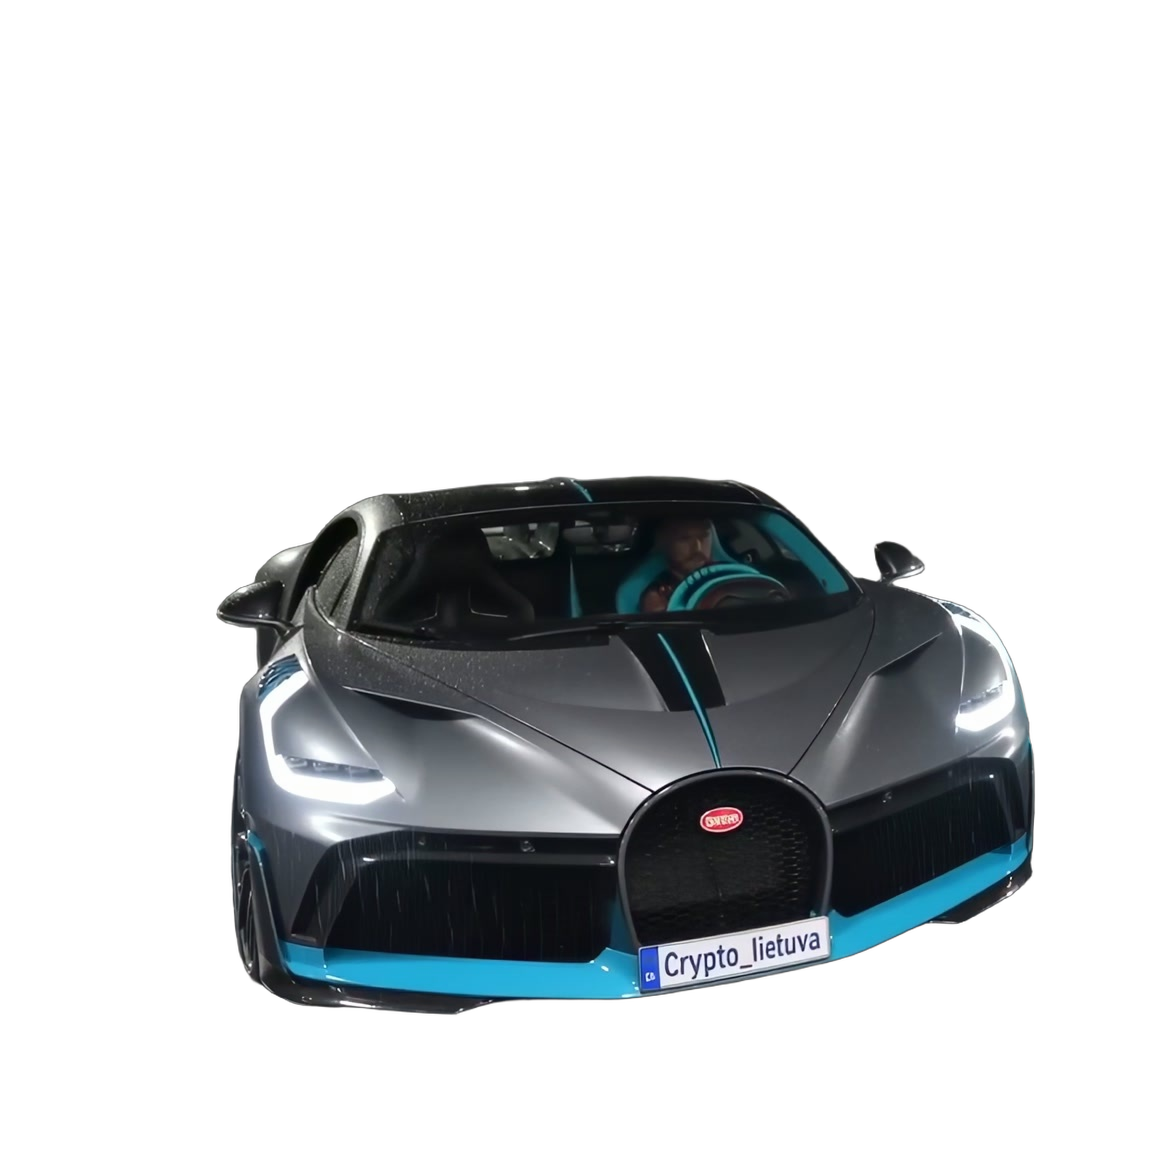
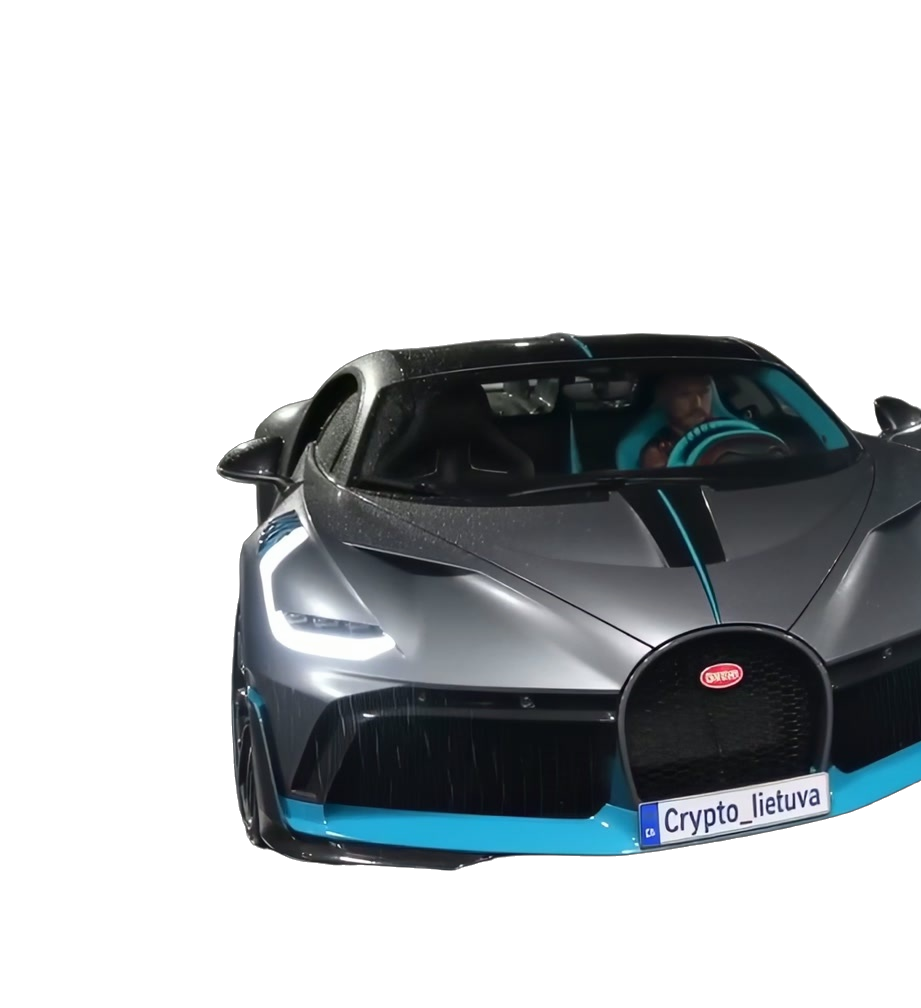
Fix car extraction: tight crops + connected-component filtering

Changed region(s): [[0.1824, 0.3075, 1.0, 0.8919]]

diff --git a/scripts/extract-cars.py b/scripts/extract-cars.py
@@ -1,41 +1,82 @@
 #!/usr/bin/env python3
-"""Extract three cars from the hero poster as separate transparent PNGs.
-
-Uses birefnet-general for best edge quality. Validates each output.
-"""
+"""Extract three cars cleanly. Tighter crops + connected-component filtering."""
 from pathlib import Path
 from rembg import new_session, remove
 from PIL import Image, ImageFilter, ImageEnhance
+import numpy as np
 import sys
 
 SOURCE = Path("public/web_hero_poster.jpg")
 if not SOURCE.exists():
-    print(f"ERROR: {SOURCE} not found.", file=sys.stderr)
+    print(f"ERROR: {SOURCE} not found", file=sys.stderr)
     sys.exit(1)
 
 OUT_DIR = Path("public/cars")
 OUT_DIR.mkdir(exist_ok=True, parents=True)
 
-# birefnet-general gives much sharper edges than u2net or isnet
-print("Loading birefnet-general model (first run downloads ~400MB)...")
+print("Loading birefnet-general model...")
 session = new_session("birefnet-general")
 
 img = Image.open(SOURCE).convert("RGB")
 w, h = img.size
-print(f"Source poster: {w}x{h}")
+print(f"Source: {w}x{h}")
 
-# Generous overlapping crop regions
+# TIGHT crops — no overlap. Each crop contains ONLY one car.
+# Format: (left, top, right, bottom) as fractions of width/height
 regions = {
-    "divo":      (0,             int(h * 0.20), int(w * 0.45), h),
-    "urus":      (int(w * 0.25), int(h * 0.20), int(w * 0.75), h),
-    "aventador": (int(w * 0.55), int(h * 0.20), w,             h),
+    "divo":      (0.00, 0.30, 0.36, 1.00),  # Bugatti — left third
+    "urus":      (0.36, 0.25, 0.64, 1.00),  # Urus — middle third (narrower)
+    "aventador": (0.64, 0.30, 1.00, 1.00),  # Aventador — right third
 }
 
-for car_id, box in regions.items():
-    print(f"\n=== Processing {car_id} ===")
+def keep_largest_blob(rgba_img: Image.Image) -> Image.Image:
+    """Keep only the largest connected blob in the alpha channel.
+    Removes stray fragments of neighboring cars."""
+    arr = np.array(rgba_img)
+    alpha = arr[:, :, 3]
+    mask = alpha > 30  # threshold for "visible"
+
+    from collections import deque
+    labels = np.zeros_like(mask, dtype=np.int32)
+    current_label = 0
+    blob_sizes = {}
+
+    H, W = mask.shape
+    for y in range(H):
+        for x in range(W):
+            if mask[y, x] and labels[y, x] == 0:
+                current_label += 1
+                size = 0
+                q = deque([(y, x)])
+                while q:
+                    cy, cx = q.popleft()
+                    if cy < 0 or cy >= H or cx < 0 or cx >= W:
+                        continue
+                    if not mask[cy, cx] or labels[cy, cx] != 0:
+                        continue
+                    labels[cy, cx] = current_label
+                    size += 1
+                    q.extend([(cy+1, cx), (cy-1, cx), (cy, cx+1), (cy, cx-1)])
+                blob_sizes[current_label] = size
+
+    if not blob_sizes:
+        return rgba_img
+
+    largest_label = max(blob_sizes, key=blob_sizes.get)
+    largest_size = blob_sizes[largest_label]
+    total_visible = sum(blob_sizes.values())
+    print(f"    {len(blob_sizes)} blob(s) found, largest = {largest_size/total_visible:.0%} of visible pixels")
+
+    # Zero out alpha for any pixel not in the largest blob
+    keep_mask = labels == largest_label
+    arr[:, :, 3] = np.where(keep_mask, alpha, 0)
+    return Image.fromarray(arr)
+
+for car_id, (l, t, r, b) in regions.items():
+    print(f"\n=== {car_id} ===")
+    box = (int(w * l), int(h * t), int(w * r), int(h * b))
     crop = img.crop(box)
-    cw, ch = crop.size
-    print(f"  Crop size: {cw}x{ch}")
+    print(f"  Crop: {crop.size}")
 
     tmp = OUT_DIR / f"_tmp_{car_id}.jpg"
     crop.save(tmp, quality=95)
@@ -43,37 +84,39 @@ for car_id, box in regions.items():
     with open(tmp, "rb") as f:
         output_bytes = remove(f.read(), session=session)
 
-    out_path = OUT_DIR / f"{car_id}.png"
-    with open(out_path, "wb") as f:
+    raw = OUT_DIR / f"_raw_{car_id}.png"
+    with open(raw, "wb") as f:
         f.write(output_bytes)
-    tmp.unlink()
 
-    result = Image.open(out_path)
-    if result.mode != "RGBA":
-        print(f"  WARN: {car_id}.png is not RGBA")
-    alpha = result.getchannel("A")
-    non_transparent_pixels = sum(1 for p in alpha.getdata() if p > 50)
-    total = alpha.width * alpha.height
-    coverage = non_transparent_pixels / total
-    print(f"  Coverage: {coverage:.1%} of pixels are visible (car silhouette)")
+    rgba = Image.open(raw).convert("RGBA")
+    cleaned = keep_largest_blob(rgba)
+
+    out_path = OUT_DIR / f"{car_id}.png"
+    cleaned.save(out_path, optimize=True)
+
+    tmp.unlink()
+    raw.unlink()
+
+    final_alpha = np.array(cleaned)[:, :, 3]
+    coverage = (final_alpha > 50).sum() / final_alpha.size
+    print(f"  Final coverage: {coverage:.1%}")
     if coverage < 0.05:
-        print(f"  ERROR: {car_id}.png is mostly transparent -- extraction failed")
-    elif coverage > 0.80:
-        print(f"  ERROR: {car_id}.png is mostly opaque -- background removal failed")
+        print(f"  WARN: too transparent -- extraction likely failed")
+    elif coverage > 0.70:
+        print(f"  WARN: too opaque -- background not removed properly")
     else:
         print(f"  OK: {out_path}")
 
-# Generate clean parking-lot background
-print("\n=== Generating clean parking background ===")
+# Clean parking background
+print("\n=== parking_clean.jpg ===")
 base = Image.open(SOURCE).convert("RGB")
 top = base.crop((0, 0, w, int(h * 0.40)))
 bottom = base.crop((0, int(h * 0.40), w, h)).filter(ImageFilter.GaussianBlur(50))
 bottom = ImageEnhance.Brightness(bottom).enhance(0.55)
-
 clean = Image.new("RGB", (w, h))
 clean.paste(top, (0, 0))
 clean.paste(bottom, (0, int(h * 0.40)))
 clean.save("public/parking_clean.jpg", quality=92)
-print(f"OK: public/parking_clean.jpg ({w}x{h})")
+print(f"OK: public/parking_clean.jpg")
 
-print("\nDone. Inspect public/cars/*.png to verify quality.")
+print("\nDone. Verify each PNG contains only ONE car.")
